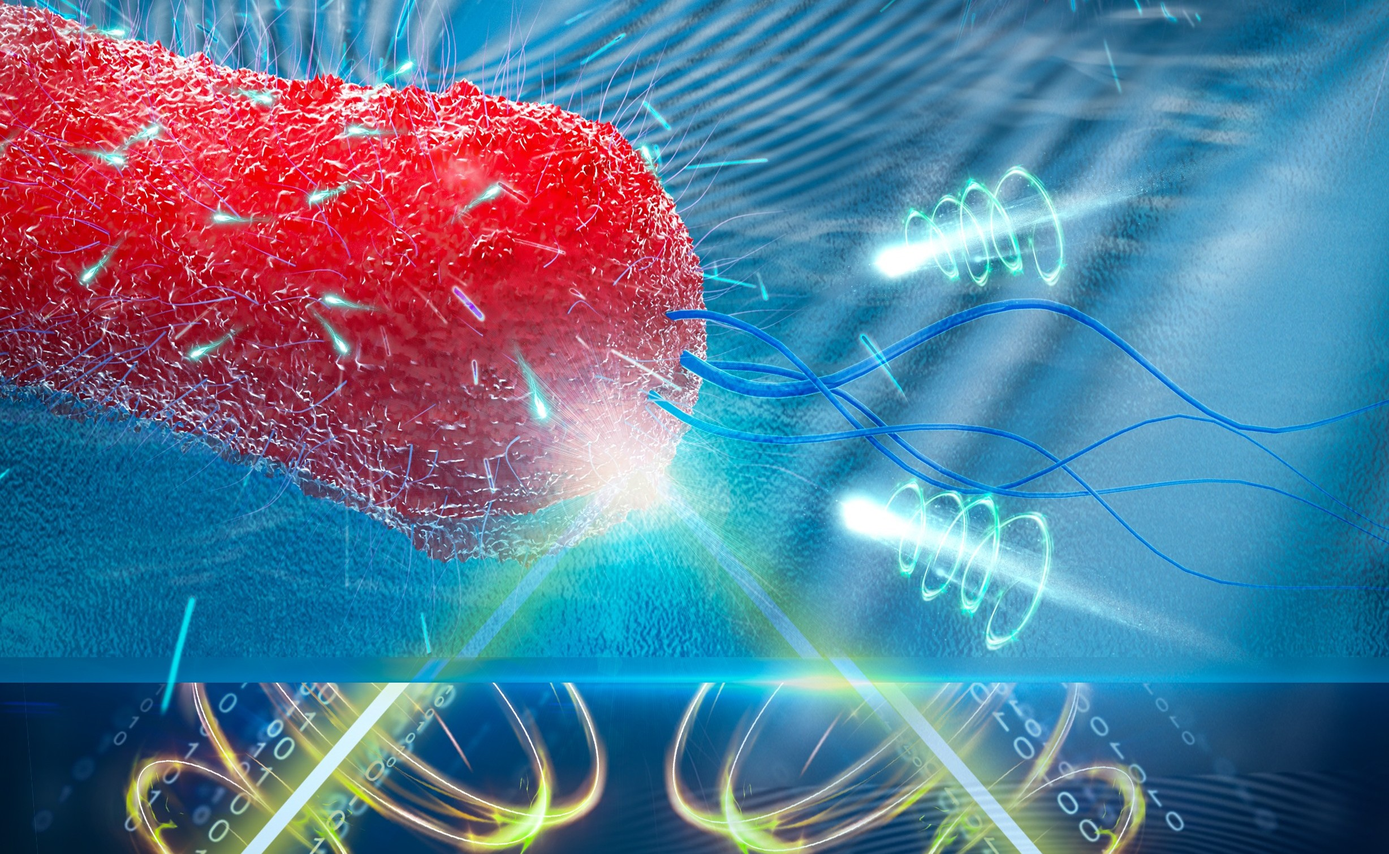
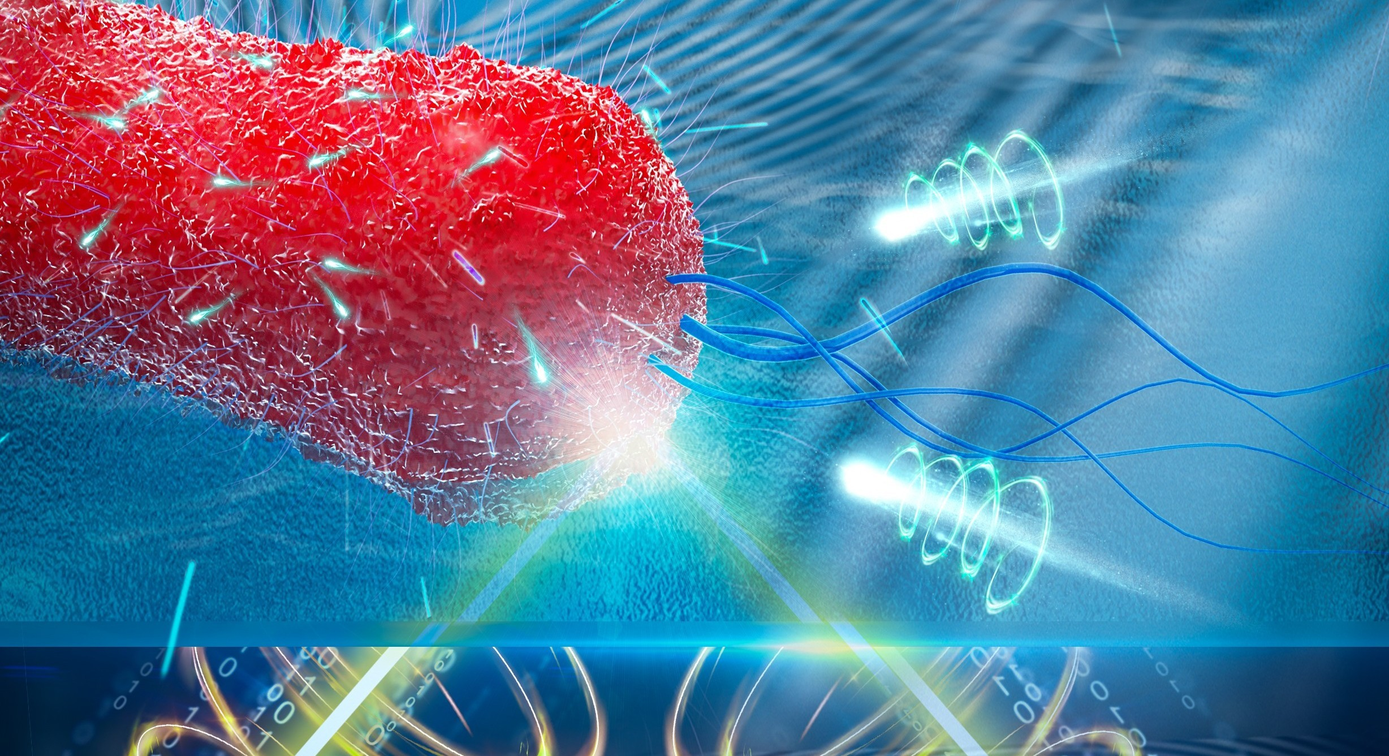
debug2

diff --git a/_pages/about.md b/_pages/about.md
@@ -69,7 +69,8 @@ To date, I have published 16 peer-reviewed papers in journals such as *PNAS, ACS
 <div class='paper-box'><div class='paper-box-image'><div><div class="badge">PNAS 2020</div><img src='images/PNAS2020.png' alt="sym" width="100%"></div></div>
 <div class='paper-box-text' markdown="1">
 
-1. **Liu, Y.-N.**; Lv, Z. T.; Lv, W. L.; Liu, X.W., Plasmonic Probing of the Adhesion Strength of Single Microbial Cells. *Proc. Natl. Acad. Sci. U. S. A.* **2020**, 117 (44), 27148-27153.  
+
+- **Liu, Y.-N.**; Lv, Z. T.; Lv, W. L.; Liu, X.W., Plasmonic Probing of the Adhesion Strength of Single Microbial Cells. *Proc. Natl. Acad. Sci. U. S. A.* **2020**, 117 (44), 27148-27153.  
 
 </div>
 </div>
@@ -78,46 +79,57 @@ To date, I have published 16 peer-reviewed papers in journals such as *PNAS, ACS
 <div class='paper-box-text' markdown="2">
 
 
-2. **Liu, Y.-N.**; Liu, Z.; Liu, J.; Hu, Y.; Cao, B., Unlocking the Potential of Shewanella in Metabolic Engineering: Current Status, Challenges, and Opportunities. *Metab. Eng.* **2025**, 89, 1-11.
-</div>
-</div>
+- **Liu, Y.-N.**; Liu, Z.; Liu, J.; Hu, Y.; Cao, B., Unlocking the Potential of Shewanella in Metabolic Engineering: Current Status, Challenges, and Opportunities. *Metab. Eng.* **2025**, 89, 1-11.
+  </div>
+  </div>
 
 <div class='paper-box'><div class='paper-box-image'><div><div class="badge">ACS Nano 2024</div><img src='images/Nano2024.jpg' alt="sym" width="100%"></div></div>
 <div class='paper-box-text' markdown="3">
 
 
-3. **Liu, Y.-N.**; Liu, X.-W., Nanoscale Spatiotemporal Dynamics of Microbial Adhesion: Unveiling Stepwise Transitions with Plasmonic Imaging. *ACS Nano* **2024**, 18 (24), 16002-16010.
-</div>
-</div>
+- **Liu, Y.-N.**; Liu, X.-W., Nanoscale Spatiotemporal Dynamics of Microbial Adhesion: Unveiling Stepwise Transitions with Plasmonic Imaging. *ACS Nano* **2024**, 18 (24), 16002-16010.
+  </div>
+  </div>
 
 <div class='paper-box'><div class='paper-box-image'><div><div class="badge">EI 2024</div><img src='images/EI2024.jpeg' alt="sym" width="100%"></div></div>
 <div class='paper-box-text' markdown="4">
 
 
-4. **Liu, Y. -N.**# ; Bairoliya, S.# ; Zaiden, N.; Cao, B., Establishment of Plastic-associated Microbial Community from Superworm Gut Microbiome. *Environ. Int.* **2024**, 108349. (#共同第一作者)
-</div>
-</div>
+- **Liu, Y. -N.**# ; Bairoliya, S.# ; Zaiden, N.; Cao, B., Establishment of Plastic-associated Microbial Community from Superworm Gut Microbiome. *Environ. Int.* **2024**, 108349. (#共同第一作者)
+  </div>
+  </div>
 
 <div class='paper-box'><div class='paper-box-image'><div><div class="badge">Nano Lett. 2023</div><img src='images/NL2023.jpeg' alt="sym" width="100%"></div></div>
 <div class='paper-box-text' markdown="5">
 
 
-5. **Liu, Y. -N.**#; Lv, Z.-T.#; Lv, W.-L.; Liu, D.-F.; Liu, X.-W., Label-Free Optical Imaging of the Electron Transfer in Single Live Microbial Cells. *Nano Lett.* **2023**, 23 (2), 558-566. (#共同第一作者)
-</div>
-</div>
+- **Liu, Y. -N.**#; Lv, Z.-T.#; Lv, W.-L.; Liu, D.-F.; Liu, X.-W., Label-Free Optical Imaging of the Electron Transfer in Single Live Microbial Cells. *Nano Lett.* **2023**, 23 (2), 558-566. (#共同第一作者)
+  </div>
+  </div>
 
-6. **Liu, Y. -N.**; Deng, S.; Bairoliya, S.; Cao, B. Mining Microbial Resources from Water. *Resour. Conserv. Recycl.* **2023**, 191, 106883.
-7. **Liu, Y. -N.**; Min, Y.; Chen, J.-J.; Zhang, F.; Liu, D.-F.; Liu, X.-W.; Tian, T.; Yu, H.-Q., C-Type Cytochromes Facilitated Cd(II) Complexation by an Electrochemically Active Bacterium Shewanella oneidensis MR-1. *ACS ES&T Water* **2022**, 2 (10), 1697-1706.
-8. **Liu, Y. -N.**#; Lv, Z. T.#; Yang, S. Y.; Liu, X. W., Optical Tracking Interfacial Dynamics of Single SARS-CoV-2 Pseudoviruses. *Environ. Sci. Technol.* **2021**, 55 (7), 4115-4122. (#共同第一作者)
-9. **Liu, Y.-N.**; Liu, X.-W., Chapter Four-Single-cell plasmonic imaging for activity analysis. *In Comprehensive Analytical Chemistry*, Chen, Y.-P.; Ma, T.-F., Eds. Elsevier: **2021**; Vol. 95, pp 107-143
-10. **Liu, Y. -N.**; Chen, H. B.; Liu, X. W., Rapid Assessment of Water Toxicity by Plasmonic Nanomechanical Sensing. *Anal. Chem.* **2020**, 92 (1), 1309-1315.
-11. **Liu, Y. -N.**#; Zhang, F.#; Li, J.; Li, D. B.; Liu, D. F; Li, W. W.; Yu, H. Q., Exclusive Extracellular Bioreduction of Methyl Orange by Azo Reductase-Free Geobacter sulfurreducens. *Environ. Sci. Technol.* **2017**, 51 (15), 8616-8623. (#共同第一作者)
-12. Li, N.#; **Liu, Y. -N.**#; An, J.; Feng, C.; Wang, X., Bifunctional Quaternary Ammonium Compounds to Inhibit Biofilm Growth and Enhance Performance for Activated Carbon Air-cathode in Microbial Fuel Cells. *J. Power Sources* **2014**, 272, 895-899. (#共同第一作者)
-13. Song, W.; Liu, Y.; Wu, Y.; Wang, C.; Liu, Z.; **Liu, Y.-N**.; Zhang, X.; Cao, L.; Li, B.; Song, B., Single-Atom Bridges across Biotic-Abiotic Interfaces Facilitate Direct Electron Transfer for Solar-to-Chemical Conversion. *Nat. Commun.* **2025**, 16 (1), 6708
-14. Lv, Z. T.;  Qian, C.; **Liu, Y. -N.**;  Lv, Y. H.; Liu, X.-W., Optical Tracking of Surfactant-Tuned Bacterial Adhesion: a Single-Cell Imaging Study. *Appl. Environ. Microbiol.* **2022**, 88 (23), e01626-22.
-15. Jiang, D., Zhao, X., **Liu, Y. -N.**, Chen, H. B., Lv, W. L., Qian, C., Liu, X. W., Label-free Probing of Molecule Binding Kinetics Using Single-particle Interferometric Imaging. *Anal. Chem.* **2021**, 93 (22), 7965-7969.
-16. Chen, H. B.; Jiang, D.; **Liu, Y. -N.**; Qian, C.; Zhou, X.-L.; Liu, X.-W., Probing the Deposition Kinetics of Nanoparticles by Plasmonic Imaging and Counting Single Nanoparticles. *Environ. Sci. Technol. Lett.* **2020**, 7 (5), 298-302. 
-17. Feng, C.; **Liu, Y. -N.**; Li, Q.; Che, Y.; Li, N.; Wang, X., Quaternary Ammonium Compound in Anolyte without Functionalization Accelerates the Startup of Bioelectrochemical Systems Using Real Wastewater. *Electrochim. Acta* **2016**, 188, 801-808.
+- **Liu, Y. -N.**; Deng, S.; Bairoliya, S.; Cao, B. Mining Microbial Resources from Water. *Resour. Conserv. Recycl.* **2023**, 191, 106883.
+
+- **Liu, Y. -N.**; Min, Y.; Chen, J.-J.; Zhang, F.; Liu, D.-F.; Liu, X.-W.; Tian, T.; Yu, H.-Q., C-Type Cytochromes Facilitated Cd(II) Complexation by an Electrochemically Active Bacterium Shewanella oneidensis MR-1. *ACS ES&T Water* **2022**, 2 (10), 1697-1706
+
+- **Liu, Y. -N.**#; Lv, Z. T.#; Yang, S. Y.; Liu, X. W., Optical Tracking Interfacial Dynamics of Single SARS-CoV-2 Pseudoviruses. *Environ. Sci. Technol.* **2021**, 55 (7), 4115-4122. (#共同第一作者)
+
+- **Liu, Y.-N.**; Liu, X.-W., Chapter Four-Single-cell plasmonic imaging for activity analysis. *In Comprehensive Analytical Chemistry*, Chen, Y.-P.; Ma, T.-F., Eds. Elsevier: **2021**; Vol. 95, pp 107-143
+
+- **Liu, Y. -N.**; Chen, H. B.; Liu, X. W., Rapid Assessment of Water Toxicity by Plasmonic Nanomechanical Sensing. *Anal. Chem.* **2020**, 92 (1), 1309-1315.
+
+- **Liu, Y. -N.**#; Zhang, F.#; Li, J.; Li, D. B.; Liu, D. F; Li, W. W.; Yu, H. Q., Exclusive Extracellular Bioreduction of Methyl Orange by Azo Reductase-Free Geobacter sulfurreducens. *Environ. Sci. Technol.* **2017**, 51 (15), 8616-8623. (#共同第一作者)
+
+- Li, N.#; **Liu, Y. -N.**#; An, J.; Feng, C.; Wang, X., Bifunctional Quaternary Ammonium Compounds to Inhibit Biofilm Growth and Enhance Performance for Activated Carbon Air-cathode in Microbial Fuel Cells. *J. Power Sources* **2014**, 272, 895-899. (#共同第一作者)
+
+- Song, W.; Liu, Y.; Wu, Y.; Wang, C.; Liu, Z.; **Liu, Y.-N**.; Zhang, X.; Cao, L.; Li, B.; Song, B., Single-Atom Bridges across Biotic-Abiotic Interfaces Facilitate Direct Electron Transfer for Solar-to-Chemical Conversion. *Nat. Commun.* **2025**, 16 (1), 6708
+
+- Lv, Z. T.;  Qian, C.; **Liu, Y. -N.**;  Lv, Y. H.; Liu, X.-W., Optical Tracking of Surfactant-Tuned Bacterial Adhesion: a Single-Cell Imaging Study. *Appl. Environ. Microbiol.* **2022**, 88 (23), e01626-22.
+
+- Jiang, D., Zhao, X., **Liu, Y. -N.**, Chen, H. B., Lv, W. L., Qian, C., Liu, X. W., Label-free Probing of Molecule Binding Kinetics Using Single-particle Interferometric Imaging. *Anal. Chem.* **2021**, 93 (22), 7965-7969.
+
+- Chen, H. B.; Jiang, D.; **Liu, Y. -N.**; Qian, C.; Zhou, X.-L.; Liu, X.-W., Probing the Deposition Kinetics of Nanoparticles by Plasmonic Imaging and Counting Single Nanoparticles. *Environ. Sci. Technol. Lett.* **2020**, 7 (5), 298-302. 
+
+- Feng, C.; **Liu, Y. -N.**; Li, Q.; Che, Y.; Li, N.; Wang, X., Quaternary Ammonium Compound in Anolyte without Functionalization Accelerates the Startup of Bioelectrochemical Systems Using Real Wastewater. *Electrochim. Acta* **2016**, 188, 801-808.
 
 # 🎖 Honors and Awards
 - *2022* Chinese Academy of Sciences Outstanding Ph.D. Dissertation Award  
